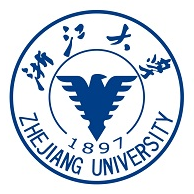
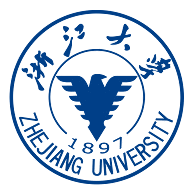
Refine navigation motion and display university crests on transparent backgrounds

diff --git a/style.css b/style.css
@@ -1,20 +1,23 @@
 :root {
   color-scheme: light dark;
-  --page: light-dark(#fbfaf7, #141e2b);
-  --ink: light-dark(#28444b, #ecf0ed);
-  --body: light-dark(#364b53, #d5e0e4);
-  --quiet: light-dark(#526570, #adbfc9);
+  --page: light-dark(#fbfaf7, #17232d);
+  --ink: light-dark(#263c44, #edf1ee);
+  --body: light-dark(#384a52, #d2dde0);
+  --quiet: light-dark(#52636d, #b2c0c6);
   --blue: light-dark(#3d6077, #acc9dc);
   --rule: light-dark(#d6dcda, #354553);
   --surface: light-dark(#eaf0ef, #2c3a41);
-  --fog: light-dark(#dbe2e7, #283848);
-  --water: light-dark(#b5c5cd, #344d59);
-  --haze: light-dark(#c8c8cb, #434651);
-  --apricot: light-dark(#e8d2c4, #58474c);
+  --sky: light-dark(#f1f3f1, #202d38);
+  --fog: light-dark(#dbe5e7, #2a3b46);
+  --water: light-dark(#aac3cf, #36525e);
+  --apricot: light-dark(#e8cbbb, #614e51);
   --sun: light-dark(#af5140, #ec816d);
   --glass-edge: light-dark(#ffffffb8, #dce4ed45);
   --glass-tint: light-dark(#f2f4f2b8, #222f3ed6);
   --glass-rim: light-dark(#6f828a54, #a7bac333);
+  --selection: light-dark(#ffffff85, #b5d2dd24);
+  --selection-edge: light-dark(#ffffffbc, #e5f1ef31);
+  --selection-rim: light-dark(#57717f2d, #d6e6e719);
   --text-face: "SF Pro Text", -apple-system, BlinkMacSystemFont, "Helvetica Neue", Helvetica, Arial, sans-serif;
   --display-face: "SF Pro Display", -apple-system, BlinkMacSystemFont, "Helvetica Neue", Helvetica, Arial, sans-serif;
   --measure: 65rem;
@@ -42,39 +45,43 @@ a:focus-visible, button:focus-visible { outline: 2px solid currentColor; outline
 .skip:focus { top: .5rem; }
 
 .site-bar { --fold: 0; position: sticky; top: 0; z-index: 3; height: 3.75rem; display: grid; align-items: center; color: var(--ink); pointer-events: none; }
-.site-bar::before { content: ""; position: absolute; inset: 0; background: var(--fog); opacity: calc(1 - var(--fold)); }
+.site-bar::before { content: ""; position: absolute; inset: 0; background: var(--sky); opacity: calc(1 - var(--fold)); }
 .bar-inner, .tools, nav { display: flex; align-items: center; }
-.bar-inner { --shape: var(--fold); width: min(calc(var(--measure) - 17rem * var(--shape)), calc(100% - 5rem)); height: calc(3.25rem - .45rem * var(--shape)); padding-inline: calc(1.15rem * var(--shape)); justify-content: space-between; position: relative; isolation: isolate; pointer-events: auto; }
+.bar-inner { --shape: var(--fold); width: min(calc(var(--measure) - 14rem * var(--shape)), calc(100% - 5rem)); height: calc(3.25rem - .45rem * var(--shape)); padding-inline: calc(1.1rem * var(--shape)); justify-content: space-between; position: relative; isolation: isolate; pointer-events: auto; }
 .bar-inner::before { content: ""; position: absolute; z-index: -1; inset: 0; border-radius: 2rem; background: var(--page); border: 1px solid var(--glass-rim); box-shadow: inset 0 1px 1px var(--glass-edge), inset 0 -1px 2px var(--glass-edge), 0 5px 17px -7px #16273038; opacity: var(--fold); pointer-events: none; }
 .bar-inner::after { content: ""; position: absolute; inset: auto 0 0; height: 1px; background: currentColor; opacity: calc(.14 * (1 - var(--fold))); pointer-events: none; }
 .home-link { color: inherit; text-decoration: none; font-size: 1.04rem; font-weight: 580; letter-spacing: -.018em; white-space: nowrap; }
-.tools { gap: 1.3rem; }
-nav { gap: 1.45rem; position: relative; }
-nav[data-marker]::before { content: ""; position: absolute; left: 0; bottom: .44rem; height: 2px; border-radius: 1px; width: var(--mark-width); transform: translateX(var(--mark-x)); background: var(--sun); }
-nav a { color: inherit; text-decoration: none; position: relative; font-size: .87rem; padding-block: .7rem; }
-nav a::after { content: ""; position: absolute; left: 0; right: 0; bottom: .44rem; height: 1px; background: currentColor; transform: scaleX(0); transform-origin: left; }
+.tools { gap: .7rem; }
+nav { gap: .12rem; position: relative; isolation: isolate; }
+nav[data-marker]::before, nav:not([data-marker]) a[aria-current] {
+  background: var(--selection); border-radius: 2rem;
+  box-shadow: inset 0 1px var(--selection-edge), inset 0 0 0 1px var(--selection-rim), 0 1px 3px #1e354710;
+}
+nav[data-marker]::before { content: ""; position: absolute; z-index: -1; inset-block: .23rem; left: var(--mark-left); right: var(--mark-right); pointer-events: none; }
+nav a { color: var(--body); text-decoration: none; position: relative; font-size: .875rem; line-height: 1.3; padding: .68rem .82rem; border-radius: 2rem; }
+nav a[aria-current], nav a:is(:hover, :focus-visible) { color: var(--ink); }
+nav a::after { content: ""; position: absolute; left: calc(50% - .26rem); bottom: .32rem; width: .52rem; height: 2px; background: var(--sun); border-radius: 2px; opacity: 0; }
+nav a[aria-current]::after { opacity: .88; }
 nav a:hover, .home-link:hover { text-decoration: none; }
-nav a:hover::after, nav:not([data-marker]) a[aria-current]::after { transform: scaleX(1); }
 #theme-toggle { display: grid; place-items: center; width: 2rem; height: 2rem; border: 0; border-radius: 50%; background: transparent; color: inherit; cursor: pointer; }
 #theme-toggle:hover { background: color-mix(in srgb, currentColor 12%, transparent); }
 #theme-toggle[hidden] { display: none; }
 
 .cover {
   background:
-    linear-gradient(180deg, var(--fog) 0, transparent 25%, transparent 65%, var(--page) 100%),
-    radial-gradient(ellipse 41% 90% at 96% 48%, var(--haze), transparent),
-    radial-gradient(ellipse 34% 75% at 69% 36%, var(--apricot), transparent),
-    linear-gradient(107deg, var(--fog) 2%, var(--water) 57%, var(--fog));
+    linear-gradient(180deg, var(--sky), transparent 20%, transparent 69%, var(--page)),
+    radial-gradient(ellipse 32% 67% at 85% 27%, var(--apricot), transparent 90%),
+    radial-gradient(ellipse 65% 61% at 81% 72%, var(--water), transparent),
+    linear-gradient(105deg, var(--sky), var(--fog) 64%, var(--sky));
 }
-.cover-inner { display: grid; grid-template-columns: minmax(0,1fr) clamp(13rem, 22vw, 17rem); grid-template-areas: "identity art" "research art"; align-items: center; gap: 1.2rem clamp(2rem, 5vw, 5rem); padding-block: clamp(2.7rem, 5vw, 4.6rem) clamp(2.5rem, 4.5vw, 4.1rem); }
+.cover-inner { display: grid; grid-template-columns: minmax(0,1fr) clamp(13rem, 21vw, 16.25rem); grid-template-areas: "identity art" "research art"; align-items: center; gap: 1.2rem clamp(2rem, 5vw, 5rem); padding-block: clamp(2.7rem, 4.75vw, 4.25rem) clamp(2.5rem, 4.2vw, 4rem); }
 .identity { grid-area: identity; align-self: end; }
 h1, h2, .citation h3 { font-family: var(--display-face); }
-h1 { font-size: clamp(3.65rem, 6vw, 5.4rem); font-weight: 600; line-height: 1.05; letter-spacing: -.014em; }
-.role { font-size: clamp(1rem, 1.45vw, 1.22rem); color: var(--body); line-height: 1.42; letter-spacing: -.012em; margin-top: .5rem; }
+h1 { font-size: clamp(3.45rem, 5.05vw, 4.45rem); font-weight: 560; line-height: 1.06; letter-spacing: -.018em; }
+.role { font-size: clamp(1rem, 1.4vw, 1.15rem); color: var(--body); line-height: 1.45; letter-spacing: -.008em; margin-top: .48rem; }
 .profile-links { display: flex; flex-wrap: wrap; align-items: center; gap: .45rem; margin-top: 1.05rem; }
-.profile-links a { display: inline-flex; align-items: center; gap: .4rem; min-height: 2.15rem; padding: .24rem .72rem; border: 1px solid var(--glass-rim); border-radius: 2rem; color: var(--ink); background: var(--surface); box-shadow: inset 0 1px 1px var(--glass-edge); font-size: .84rem; font-weight: 540; letter-spacing: -.01em; text-decoration: none; }
+.profile-links a { display: inline-flex; align-items: center; gap: .4rem; min-height: 2.15rem; padding: .24rem .75rem; border: 1px solid var(--selection-rim); border-radius: 2rem; color: var(--ink); background: var(--surface); box-shadow: inset 0 1px var(--glass-edge); font-size: .84rem; font-weight: 490; letter-spacing: -.006em; text-decoration: none; }
 .profile-links .icon { width: .95rem; height: .95rem; color: var(--blue); }
-.email-label { display: none; }
 .profile-links a:hover, .profile-links a:focus-visible { border-color: var(--blue); }
 .profile-links a:active { box-shadow: inset 0 1px 3px #172d3d20; }
 @supports ((backdrop-filter: blur(1px)) or (-webkit-backdrop-filter: blur(1px))) {
@@ -88,9 +95,9 @@ h1 { font-size: clamp(3.65rem, 6vw, 5.4rem); font-weight: 600; line-height: 1.05
 .portrait { display: block; width: 100%; height: auto; }
 
 main section { scroll-margin-top: 4rem; }
-h2 { font-weight: 600; font-size: clamp(1.65rem, 2.55vw, 2.12rem); line-height: 1.16; letter-spacing: -.022em; }
+h2 { font-weight: 575; font-size: clamp(1.58rem, 2.28vw, 1.9rem); line-height: 1.19; letter-spacing: -.02em; }
 .research { grid-area: research; align-self: start; max-width: 38rem; }
-.bio { font-size: clamp(1.0625rem, 1.42vw, 1.16rem); line-height: 1.53; letter-spacing: -.011em; text-wrap: pretty; color: var(--body); }
+.bio { font-size: clamp(1.0625rem, 1.39vw, 1.125rem); line-height: 1.58; letter-spacing: -.009em; text-wrap: pretty; color: var(--body); }
 .works { padding-top: 1.3rem; }
 .bio p + p { margin-top: .6rem; }
 .works > h2, .experience > h2 { border-bottom: 1px solid var(--rule); padding-bottom: .86rem; }
@@ -105,14 +112,14 @@ h2 { font-weight: 600; font-size: clamp(1.65rem, 2.55vw, 2.12rem); line-height: 
   .enlarge { opacity: 0; }
   a:is(:hover, :focus-visible) > .enlarge { opacity: 1; }
 }
-.citation h3 { font-size: clamp(1.16rem, 1.65vw, 1.42rem); line-height: 1.28; font-weight: 600; letter-spacing: -.013em; text-wrap: pretty; }
+.citation h3 { font-size: clamp(1.16rem, 1.6vw, 1.35rem); line-height: 1.33; font-weight: 565; letter-spacing: -.009em; text-wrap: pretty; }
 .citation h3 a { color: var(--ink); text-decoration: none; }
 .citation h3 a:hover { color: var(--blue); text-decoration: underline; }
-.authors { color: var(--quiet); font-size: .92rem; line-height: 1.54; margin-top: .44rem; }
+.authors { color: var(--quiet); font-size: .955rem; line-height: 1.52; margin-top: .4rem; }
 .author { display: inline-block; }
 .author strong { color: var(--ink); font-weight: 620; }
 .paper-details, .resources { display: flex; align-items: baseline; flex-wrap: wrap; }
-.paper-details { margin-top: .4rem; font-size: .85rem; }
+.paper-details { margin-top: .35rem; font-size: .9rem; }
 .venue { position: absolute; z-index: 1; top: -.55rem; left: .43rem; line-height: 1.4; padding: .09rem .39rem; color: light-dark(#294959, #e5edf0); background: light-dark(#dce8eb, #354e5d); border-radius: .2rem; font-size: .71rem; font-weight: 600; letter-spacing: .012em; pointer-events: none; }
 .resources { gap: .8rem; }
 .resources a { padding-block: .18rem; text-decoration-color: color-mix(in srgb, var(--blue) 46%, transparent); }
@@ -120,8 +127,12 @@ h2 { font-weight: 600; font-size: clamp(1.65rem, 2.55vw, 2.12rem); line-height: 
 .experience { margin-top: 3rem; }
 .placement { display: grid; grid-template-columns: 3.65rem minmax(0,1fr) auto; column-gap: 1.15rem; align-items: start; padding-block: 1.15rem; }
 .placement + .placement { border-top: 1px solid var(--rule); }
-.school-mark { display: grid; place-items: center; width: 3.65rem; height: 3.65rem; padding: .19rem; border-radius: .55rem; background: light-dark(#f3f3ed, #e0e5e4); isolation: isolate; }
-.school-mark img { display: block; width: 100%; height: 100%; object-fit: contain; mix-blend-mode: multiply; }
+.school-mark { display: grid; place-items: center; width: 3.65rem; height: 3.65rem; padding: .19rem; }
+.school-mark img { display: block; width: 100%; height: 100%; object-fit: contain; }
+:root[data-theme="dark"] .school-mark.monochrome img { filter: brightness(0) invert(.91); }
+@media (prefers-color-scheme: dark) {
+  :root:not([data-theme="light"]) .school-mark.monochrome img { filter: brightness(0) invert(.91); }
+}
 .placement h3 { font: 600 1.16rem/1.35 var(--display-face); letter-spacing: -.012em; }
 .placement h3 a { color: var(--ink); text-decoration: none; }
 .placement h3 a:hover { color: var(--blue); text-decoration: underline; }
@@ -148,7 +159,7 @@ footer { display: flex; justify-content: space-between; border-top: 1px solid va
   .wrap { width: min(38rem, calc(100% - 2.5rem)); }
   .bar-inner { width: min(38rem, calc(100% - 2.5rem + .6rem * var(--shape))); padding-inline: calc(.65rem * var(--shape)); }
   .cover-inner { grid-template-columns: minmax(0,1fr) clamp(7rem, 24vw, 10rem); grid-template-areas: "identity art" "research research"; gap: 1.35rem 1rem; padding-block: 2.25rem 1.8rem; }
-  h1 { font-size: clamp(2.55rem, 8.7vw, 4rem); }
+  h1 { font-size: clamp(2.42rem, 8.5vw, 3.85rem); }
   .identity { align-self: center; }
   .portrait-mount { padding: .25rem; }
   .paper { --column-gap: 1.2rem; }
@@ -156,22 +167,21 @@ footer { display: flex; justify-content: space-between; border-top: 1px solid va
   .experience { margin-top: 2.3rem; }
 }
 @media (max-width: 34rem) {
-  .tools, nav { gap: .78rem; }
+  .tools { gap: .32rem; }
+  nav { gap: .05rem; }
   .home-link { font-size: .85rem; }
-  nav a { font-size: .77rem; }
+  nav a { font-size: .795rem; padding-inline: .37rem; }
   #theme-toggle { width: 1.75rem; }
   .cover-inner { grid-template-columns: minmax(0,1fr) clamp(6.1rem, 28vw, 8.5rem); gap: 1.1rem .8rem; padding-block: 1.55rem 1.55rem; }
   .role { margin-top: .4rem; font-size: .935rem; }
   .profile-links { margin-top: .72rem; gap: .4rem; }
   .profile-links a { font-size: .78rem; padding-inline: .58rem; }
-  .email-label { display: inline; }
-  .email-address { display: none; }
-  .bio { font-size: 1.065rem; line-height: 1.54; }
+  .bio { font-size: 1.0625rem; line-height: 1.56; }
   .paper { grid-template-columns: 43% minmax(0,1fr); gap: .35rem .9rem; padding: 1.15rem 0; }
   .citation { display: contents; }
   .citation h3, .authors { grid-column: 1/-1; }
   .citation h3 { grid-row: 1; font-size: 1.16rem; }
-  .authors { grid-row: 2; margin-top: .05rem; font-size: .885rem; }
+  .authors { grid-row: 2; margin-top: .05rem; font-size: .93rem; }
   .paper-visual, .paper-details { grid-row: 3; margin-top: .75rem; }
   .paper-visual { grid-column: 1; }
   .paper-details { grid-column: 2; flex-direction: column; gap: .08rem; }
@@ -185,9 +195,9 @@ footer { display: flex; justify-content: space-between; border-top: 1px solid va
 @media (max-width: 22rem) {
   .wrap { width: calc(100% - 1.65rem); }
   .bar-inner { width: calc(100% - 1.65rem + .85rem * var(--shape)); padding-inline: calc(.45rem * var(--shape)); }
-  .tools, nav { gap: .4rem; }
+  .tools, nav { gap: 0; }
   .home-link { font-size: .78rem; }
-  nav a { font-size: .73rem; }
+  nav a { font-size: .75rem; padding-inline: .19rem; }
   #theme-toggle { width: 1.5rem; }
   .cover-inner { grid-template-columns: minmax(0,1fr) 5.7rem; }
 }
@@ -196,15 +206,16 @@ footer { display: flex; justify-content: space-between; border-top: 1px solid va
   ::view-transition-old(root), ::view-transition-new(root) { animation-duration: .36s; animation-timing-function: ease-in-out; }
   ::view-transition { pointer-events: none; }
   .profile-links a { transition: border-color .2s ease, box-shadow .2s ease; }
-  .portrait-mount { translate: 0 calc(var(--drift, 0) * 10px); scale: calc(1 - var(--drift, 0) * .016); }
+  .portrait-mount { translate: 0 calc(var(--drift, 0) * 5px); scale: calc(1 - var(--drift, 0) * .006); }
   .figure-link { transition: border-color .2s ease, box-shadow .2s ease; }
   .figure-link:is(:hover, :focus-visible) { box-shadow: 0 3px 12px -5px #1f3f5552; }
   .resources a { transition: text-decoration-color .16s ease, color .16s ease; }
   .resources a:is(:hover, :focus-visible) { text-decoration-color: currentColor; }
   .resources a:active { translate: 0 1px; }
   .enlarge { transition: opacity .16s ease; }
-  nav[data-marker]::before { transition: transform .28s var(--ease), width .28s var(--ease); }
-  nav a::after { transition: transform .23s var(--ease); }
+  nav[data-marker]::before { transition: left .32s cubic-bezier(.22,.75,.22,1), right .28s cubic-bezier(.22,.75,.22,1); }
+  nav[data-direction="back"]::before { transition-duration: .28s, .32s; }
+  nav a::after { transition: opacity .16s ease; }
   .identity, .research { animation: settle .55s var(--ease) backwards; }
   .research { animation-delay: .045s; }
   .portrait-mount { animation: settle .75s var(--ease) .06s backwards; }
@@ -221,5 +232,9 @@ footer { display: flex; justify-content: space-between; border-top: 1px solid va
 @media (prefers-reduced-transparency: reduce), (prefers-contrast: more), (forced-colors: active) {
   .bar-inner::before, .profile-links a { background: var(--page); -webkit-backdrop-filter: none; backdrop-filter: none; box-shadow: none; }
   .bar-inner::before { opacity: 1; }
+  nav[data-marker]::before, nav:not([data-marker]) a[aria-current] { background: var(--surface); box-shadow: inset 0 0 0 1px var(--quiet); }
   #figure-dialog::backdrop { background: light-dark(#c3cdd0, #223039); -webkit-backdrop-filter: none; backdrop-filter: none; }
+}
+@media (forced-colors: active) {
+  nav a[aria-current] { text-decoration: underline; }
 }

diff --git a/site.js b/site.js
@@ -39,10 +39,26 @@ const sections = links.map(link => document.querySelector(link.hash));
 const bar = document.querySelector(".site-bar");
 const cover = document.querySelector(".cover");
 let scheduled = false;
+let currentLink = links[0];
+let hoverLink = null;
+let destination = null;
+let markerLeft = 0;
+
+function positionMarker() {
+  const focused = nav.querySelector("a:focus-visible");
+  const marker = focused || hoverLink || currentLink;
+  const left = marker.offsetLeft;
+  const right = nav.clientWidth - left - marker.offsetWidth;
+  if (left !== markerLeft) nav.dataset.direction = left < markerLeft ? "back" : "forward";
+  markerLeft = left;
+  nav.style.setProperty("--mark-left", left + "px");
+  nav.style.setProperty("--mark-right", right + "px");
+  nav.dataset.marker = "";
+}
 
 function updateNavigation() {
   const scroll = Math.max(0, window.scrollY);
-  const progress = Math.min(1, scroll / 180);
+  const progress = Math.min(1, scroll / 235);
   const fold = reducedMotion.matches ? Number(scroll > 0) : progress * progress * (3 - 2 * progress);
   const drift = reducedMotion.matches ? 0 : Math.min(1, scroll / cover.offsetHeight);
   const threshold = bar.offsetHeight + 24;
@@ -56,14 +72,21 @@ function updateNavigation() {
     const target = links.findIndex(link => link.hash === location.hash);
     active = target >= 0 && sections[target].getBoundingClientRect().top >= threshold - 16 ? target : links.length - 1;
   }
+  if (destination) {
+    // A native smooth scroll may pass another section on the way to the clicked anchor.
+    active = links.indexOf(destination);
+    const section = sections[active];
+    const inset = parseFloat(getComputedStyle(section).scrollMarginTop) || 0;
+    const top = scroll + section.getBoundingClientRect().top - inset;
+    const limit = Math.max(0, root.scrollHeight - innerHeight);
+    if (Math.abs(scroll - Math.max(0, Math.min(top, limit))) < 2) destination = null;
+  }
+  currentLink = links[active];
   links.forEach((link, index) => {
     if (index === active) link.setAttribute("aria-current", "location");
     else link.removeAttribute("aria-current");
   });
-  const marker = links[active];
-  nav.style.setProperty("--mark-x", marker.offsetLeft + "px");
-  nav.style.setProperty("--mark-width", marker.offsetWidth + "px");
-  nav.dataset.marker = "";
+  positionMarker();
   bar.style.setProperty("--fold", fold.toFixed(3));
   cover.style.setProperty("--drift", drift.toFixed(3));
   scheduled = false;
@@ -78,7 +101,33 @@ function scheduleNavigation() {
 window.addEventListener("scroll", scheduleNavigation, { passive: true });
 window.addEventListener("resize", scheduleNavigation);
 window.addEventListener("load", scheduleNavigation);
-window.addEventListener("hashchange", scheduleNavigation);
+window.addEventListener("hashchange", () => {
+  destination = links.find(link => link.hash === location.hash) || null;
+  scheduleNavigation();
+});
+function resumeScrollTracking() {
+  destination = null;
+  hoverLink = null;
+  scheduleNavigation();
+}
+window.addEventListener("wheel", resumeScrollTracking, { passive: true });
+window.addEventListener("touchmove", resumeScrollTracking, { passive: true });
+window.addEventListener("keydown", event => {
+  if (["ArrowUp", "ArrowDown", "PageUp", "PageDown", "Home", "End", " "].includes(event.key)) resumeScrollTracking();
+});
+nav.addEventListener("click", event => {
+  if (event.metaKey || event.ctrlKey || event.altKey || event.shiftKey) return;
+  destination = event.target.closest("a");
+  scheduleNavigation();
+});
+nav.addEventListener("pointerover", event => {
+  if (event.pointerType === "touch") return;
+  hoverLink = event.target.closest("a");
+  positionMarker();
+});
+nav.addEventListener("pointerleave", () => { hoverLink = null; positionMarker(); });
+nav.addEventListener("focusin", positionMarker);
+nav.addEventListener("focusout", scheduleNavigation);
 reducedMotion.addEventListener("change", scheduleNavigation);
 scheduleNavigation();
 
@@ -98,14 +147,24 @@ if (dialog && typeof dialog.showModal === "function") {
     const frame = dialog.getBoundingClientRect();
     const full = image.getBoundingClientRect();
     if (!thumb.width || !thumb.height || !full.width || !full.height) return null;
-    // A height-limited image can have empty space on either side of the bitmap.
-    const bitmapWidth = Math.min(full.width, full.height * thumb.width / thumb.height);
-    const scale = thumb.width / bitmapWidth;
-    const x = thumb.left + thumb.width / 2 - frame.left - (full.left + full.width / 2 - frame.left) * scale;
-    const y = thumb.top + thumb.height / 2 - frame.top - (full.top + full.height / 2 - frame.top) * scale;
-    const small = { transform: `translate(${x}px, ${y}px) scale(${scale})` };
-    const large = { transform: "none" };
-    return dialog.animate(returning ? [large, small] : [small, large], {
+    // Use the painted bitmap inside object-fit: contain, excluding toolbar and padding.
+    const ratio = thumb.width / thumb.height;
+    const width = Math.min(full.width, full.height * ratio);
+    const height = width / ratio;
+    const left = full.left - frame.left + (full.width - width) / 2;
+    const top = full.top - frame.top + (full.height - height) / 2;
+    const scale = thumb.width / width;
+    const x = thumb.left - frame.left - left * scale;
+    const y = thumb.top - frame.top - top * scale;
+    const small = {
+      transform: `translate(${x}px, ${y}px) scale(${scale})`,
+      clipPath: `inset(${top}px ${frame.width - left - width}px ${frame.height - top - height}px ${left}px)`,
+      opacity: 0
+    };
+    // Allow the panel shadow to appear as its frame opens around the figure.
+    const large = { transform: "none", clipPath: "inset(-6rem)", opacity: 1 };
+    const handoff = { offset: returning ? .95 : .05, opacity: 1 };
+    return dialog.animate(returning ? [large, handoff, small] : [small, handoff, large], {
       duration: returning ? 280 : 350,
       easing: returning ? "cubic-bezier(.30,.08,.28,1)" : "cubic-bezier(.24,.08,.20,1)",
       fill: "both"

diff --git a/layouts/home.html b/layouts/home.html
@@ -56,7 +56,7 @@
         <div class="research">
           <div class="bio">{{ .Content }}</div>
           <div class="profile-links">
-            <a class="email" href="mailto:{{ $profile.email }}" aria-label="Email {{ .Title }} at {{ $profile.email }}" title="{{ $profile.email }}"><svg class="icon" aria-hidden="true"><use href="#mail"/></svg><span class="email-address">{{ $profile.email }}</span><span class="email-label">Email</span></a>
+            <a href="mailto:{{ $profile.email }}" title="{{ $profile.email }}"><svg class="icon" aria-hidden="true"><use href="#mail"/></svg>Email</a>
             {{ with $profile.scholar }}<a href="{{ . }}"><svg class="icon" aria-hidden="true"><use href="#scholar"/></svg>Google Scholar</a>{{ end }}
             {{ with $profile.github }}<a href="{{ . }}"><svg class="icon" aria-hidden="true"><use href="#code"/></svg>GitHub</a>{{ end }}
           </div>
@@ -101,7 +101,9 @@
         <h2 id="experience-heading">Education &amp; experience</h2>
         {{ range .Params.experience }}
         <div class="placement">
-          <span class="school-mark" aria-hidden="true">{{ with .logo }}<img src="{{ . }}" width="56" height="56" loading="lazy" alt="">{{ end }}</span>
+          <span class="school-mark{{ if .monochrome }} monochrome{{ end }}" aria-hidden="true">
+            {{ with .logo }}<img src="{{ . }}?v={{ substr (sha256 (readFile .)) 0 12 }}" width="56" height="56" loading="lazy" alt="">{{ end }}
+          </span>
           <div class="place-copy">
             <h3>{{ if .homepage }}<a href="{{ .homepage }}">{{ .institution }}</a>{{ else }}{{ .institution }}{{ end }}</h3>
             <p>{{ .role }}</p>{{ with .detail }}<p class="detail">{{ . }}</p>{{ end }}

diff --git a/content/_index.md b/content/_index.md
@@ -58,6 +58,7 @@ params:
   experience:
     - institution: Zhejiang University
       logo: assets/zju-mark.png
+      monochrome: true
       homepage: https://www.zju.edu.cn/english/
       dates: Sep 2023 – present
       role: B.Eng. student in Microelectronic Science and Engineering
